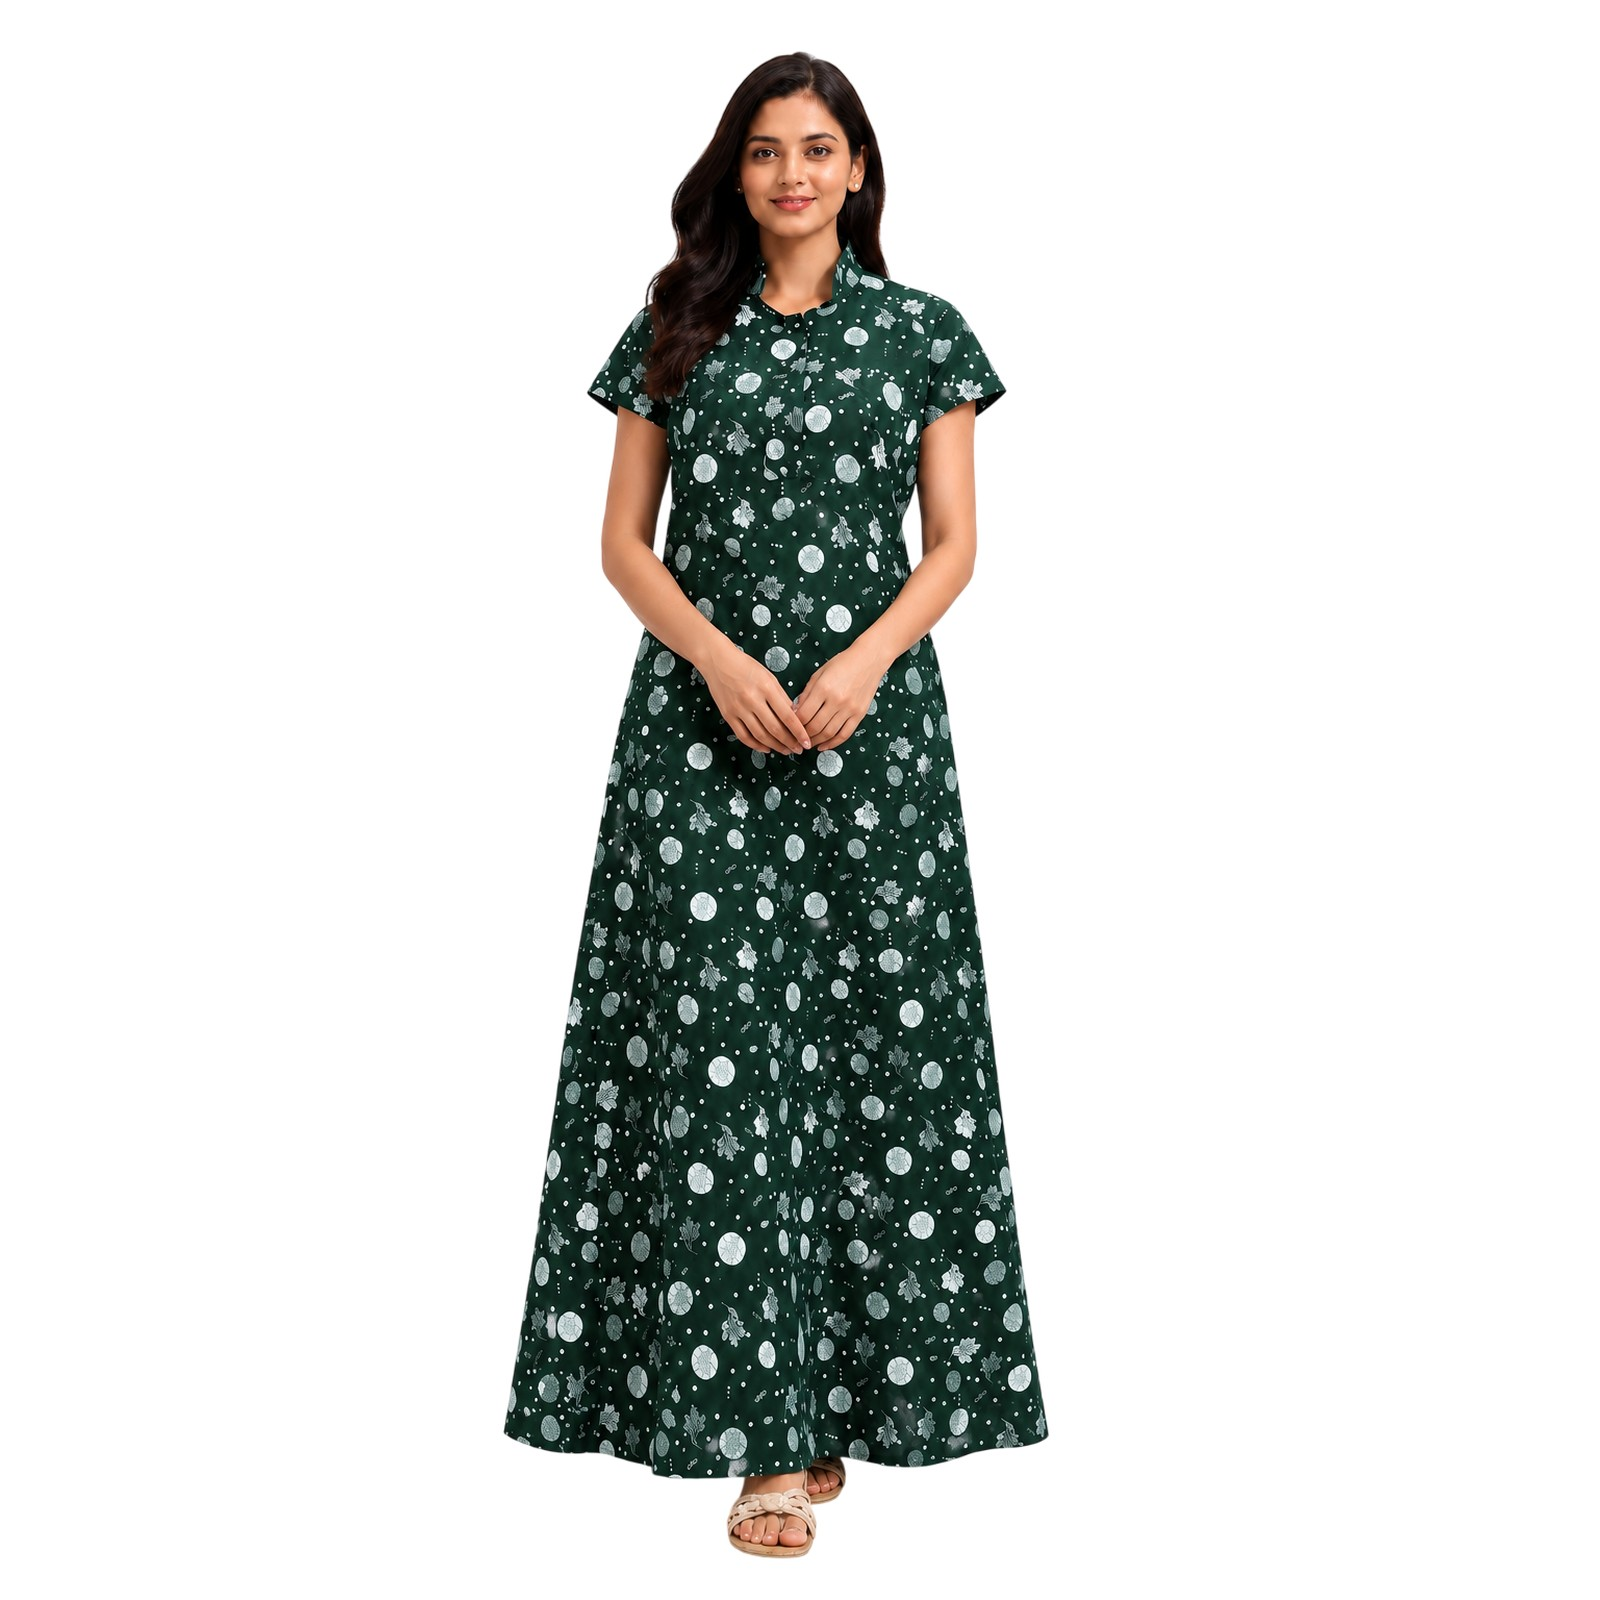
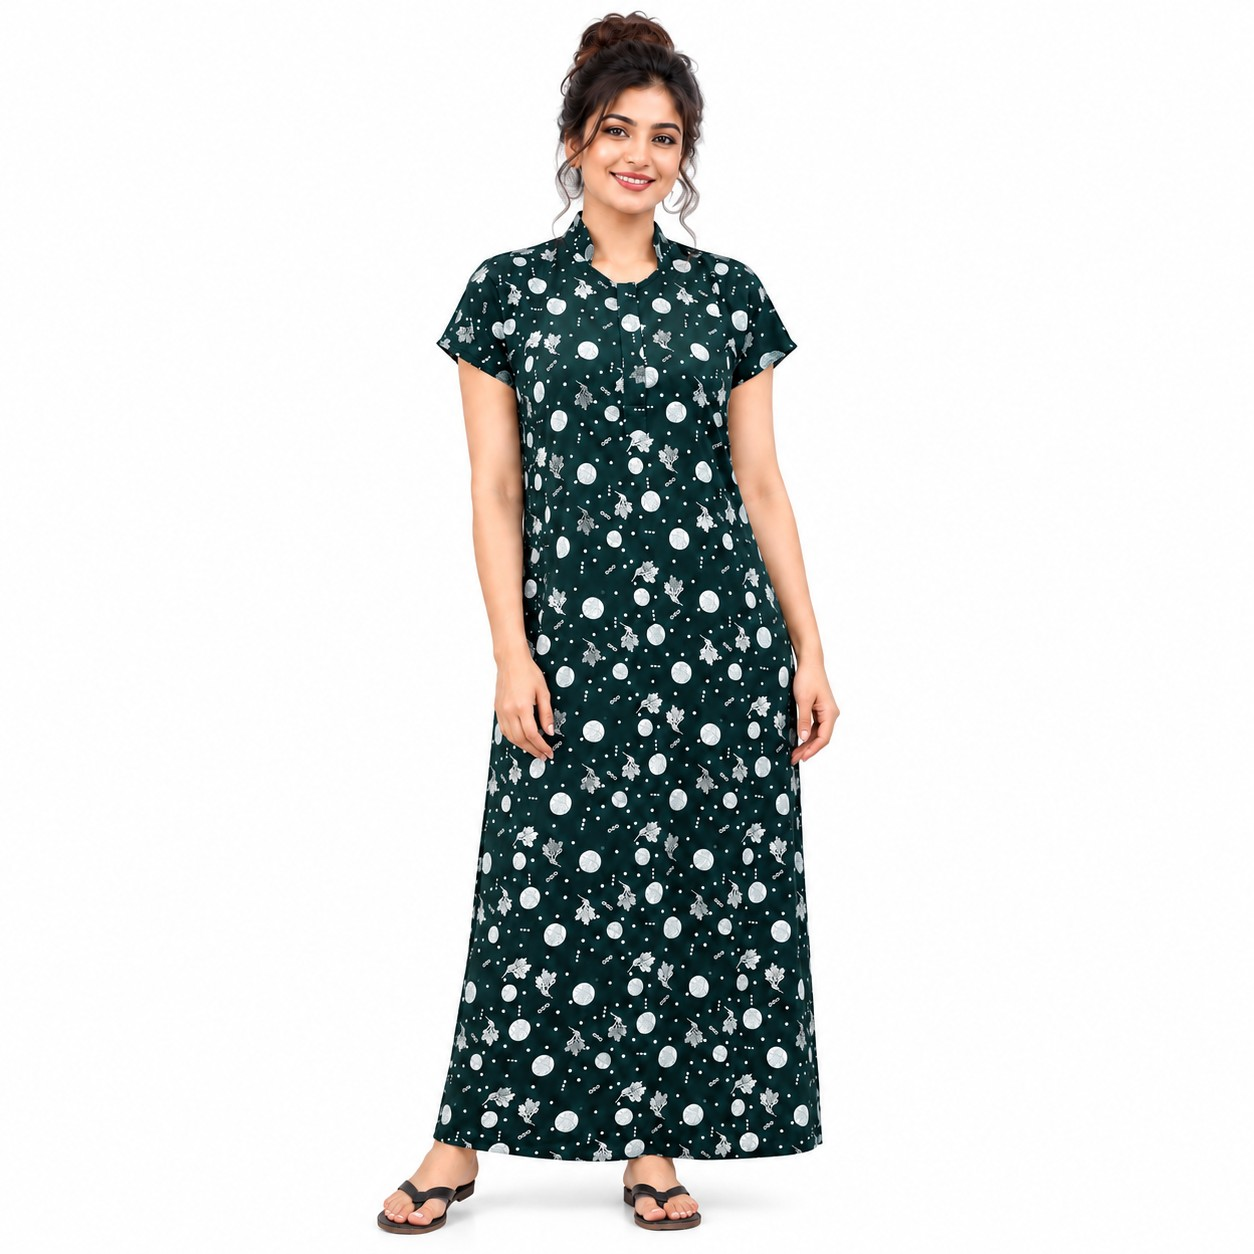
changes made today

Changed region(s): [[0.2799, 0.0, 0.6842, 0.9952]]

diff --git a/src/data/products.js b/src/data/products.js
@@ -1208,19 +1208,19 @@ const womenCatalog = [
     },
    },
   { name: 'Aster IE Print', fabric: 'Cotton Hosiery',  menuParent: 'Panties', heading: 'Women Innerwear', excludeVariants: ['Classic Fit', 'Relaxed Fit'], colors: ['Light Pink', 'Red', 'Brown', 'Black', 'Wine', 'Navy', 'EmeraldGreen', 'CherryRed', 'PlumPurple', 'Maroon', 'Blue', 'Dark Forest Green'], sizes: ['75-90', '95-100', '105-110'], sizeUnit: 'cm', sizePriceGroups: [['75-90'], ['95-100'], ['105-110']], sizePrices: [85, 92, 103], price: 85, discount: 0, image: '/images/products/women/panties/Aster IE Print/Aster IE Print-Light Pink.jpg', imageBack: '/images/products/women/panties/Aster IE Print/Aster IE Print-Light Pink-back.jpg' ,
-     colorImages:{
-     'Light Pink': { image: '/images/products/women/panties/Aster IE Print/Aster IE Print-Light Pink.jpg', imageBack: '/images/products/women/panties/Aster IE Print/Aster IE Print-Light Pink-back.jpg' },
-     Brown: { image: '/images/products/women/panties/Aster IE Print/Aster IE Print-Brown.jpg', imageBack: '/images/products/women/panties/Aster IE Print/Aster IE Print-Brown-back.jpg' },
-     Red: { image: '/images/products/women/panties/Aster IE Print/Aster IE Print-Red.jpg', imageBack: '/images/products/women/panties/Aster IE Print/Aster IE Print-Red-back.jpg' },
-     Black: { image: '/images/products/women/panties/Aster IE Print/Aster IE Print-Black.jpg', imageBack: '/images/products/women/panties/Aster IE Print/Aster IE Print-Black-back.jpg' },
-     Wine: { image: '/images/products/women/panties/Aster IE Print/Aster IE Print-Wine.jpg', imageBack: '/images/products/women/panties/Aster IE Print/Aster IE Print-Wine-back.jpg' },
-     Navy: { image: '/images/products/women/panties/Aster IE Print/Aster IE Print-Navy.jpg', imageBack: '/images/products/women/panties/Aster IE Print/Aster IE Print-Navy-back.jpg' },
-     EmeraldGreen: { image: '/images/products/women/panties/Aster IE Print/Aster IE Print-EmeraldGreen.jpg', imageBack: '/images/products/women/panties/Aster IE Print/Aster IE Print-EmeraldGreen-back.jpg' },   
-     CherryRed: { image: '/images/products/women/panties/Aster IE Print/Aster IE Print-CherryRed.jpg', imageBack: '/images/products/women/panties/Aster IE Print/Aster IE Print-CherryRed-back.jpg' },
-     PlumPurple: { image: '/images/products/women/panties/Aster IE Print/Aster IE Print-PlumPurple.jpg', imageBack: '/images/products/women/panties/Aster IE Print/Aster IE Print-PlumPurple-back.jpg' },
-     Maroon: { image: '/images/products/women/panties/Aster IE Print/Aster IE Print-Maroon.jpg', imageBack: '/images/products/women/panties/Aster IE Print/Aster IE Print-Maroon-back.jpg' },
-     Blue: { image: '/images/products/women/panties/Aster IE Print/Aster IE Print-Blue.jpg', imageBack: '/images/products/women/panties/Aster IE Print/Aster IE Print-Blue-back.jpg' },
-     'Dark Forest Green': { image: '/images/products/women/panties/Aster IE Print/Aster IE Print-Dark Forest Green.jpg', imageBack: '/images/products/women/panties/Aster IE Print/Aster IE Print-Dark Forest Green-back.jpg' },
+    colorImages:{
+      'Light Pink': { image: '/images/products/women/panties/Aster IE Print/Aster IE Print-Light Pink.jpg', imageBack: '/images/products/women/panties/Aster IE Print/Aster IE Print-Light Pink-back.jpg' },
+      Brown: { image: '/images/products/women/panties/Aster IE Print/Aster IE Print-Brown.jpg', imageBack: '/images/products/women/panties/Aster IE Print/Aster IE Print-Brown-back.jpg' },
+      Red: { image: '/images/products/women/panties/Aster IE Print/Aster IE Print-Red.jpg', imageBack: '/images/products/women/panties/Aster IE Print/Aster IE Print-Red-back.jpg' },
+      Black: { image: '/images/products/women/panties/Aster IE Print/Aster IE Print-Black.jpg', imageBack: '/images/products/women/panties/Aster IE Print/Aster IE Print-Black-back.jpg' },
+      Wine: { image: '/images/products/women/panties/Aster IE Print/Aster IE Print-Wine.jpg', imageBack: '/images/products/women/panties/Aster IE Print/Aster IE Print-Wine-back.jpg' },
+      Navy: { image: '/images/products/women/panties/Aster IE Print/Aster IE Print-Navy.jpg', imageBack: '/images/products/women/panties/Aster IE Print/Aster IE Print-Navy-back.jpg' },
+      EmeraldGreen: { image: '/images/products/women/panties/Aster IE Print/Aster IE Print-EmeraldGreen.jpg', imageBack: '/images/products/women/panties/Aster IE Print/Aster IE Print-EmeraldGreen-back.jpg' },   
+      CherryRed: { image: '/images/products/women/panties/Aster IE Print/Aster IE Print-CherryRed.jpg', imageBack: '/images/products/women/panties/Aster IE Print/Aster IE Print-CherryRed-back.jpg' },
+      PlumPurple: { image: '/images/products/women/panties/Aster IE Print/Aster IE Print-PlumPurple.jpg', imageBack: '/images/products/women/panties/Aster IE Print/Aster IE Print-PlumPurple-back.jpg' },
+      Maroon: { image: '/images/products/women/panties/Aster IE Print/Aster IE Print-Maroon.jpg', imageBack: '/images/products/women/panties/Aster IE Print/Aster IE Print-Maroon-back.jpg' },
+      Blue: { image: '/images/products/women/panties/Aster IE Print/Aster IE Print-Blue.jpg', imageBack: '/images/products/women/panties/Aster IE Print/Aster IE Print-Blue-back.jpg' },
+      'Dark Forest Green': { image: '/images/products/women/panties/Aster IE Print/Aster IE Print-Dark Forest Green.jpg', imageBack: '/images/products/women/panties/Aster IE Print/Aster IE Print-Dark Forest Green-back.jpg' },
     },
   }, 
 
@@ -2177,7 +2177,7 @@ export const newArrivalPicks = [
   'Girls Full Pant Set – Jara',
   'Kids Five Sleeve T-Shirt – Jackson',
   'Divya',
-  'Boys T-Shirt – Rio Set (5 Pcs)',
+  'Boys T-Shirt – Rio Set',
   'Girls Full Pant Set – Maya',
 ]
 
